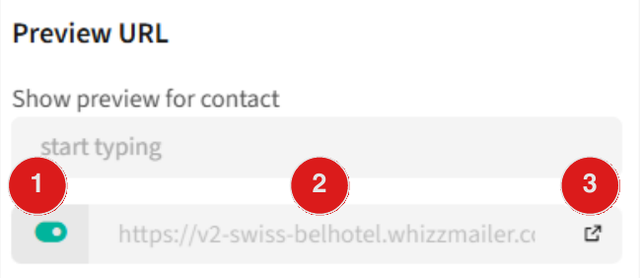
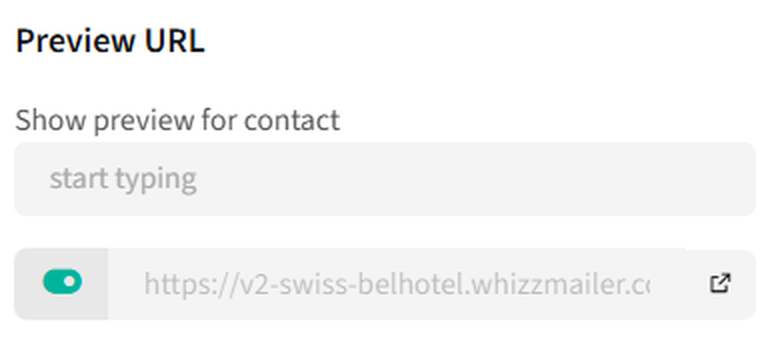
Help screenshots without the guideline's number badges
Claude-Session: https://claude.ai/code/session_014CgXvGgmCgXDUwKqoBJ4Lf

diff --git a/app.js b/app.js
@@ -890,18 +890,18 @@ function renderAccounts(){F("acc-box").hidden=!isAdmin;if(!isAdmin)return;
 /* Where-to-find-it help: an (i) next to a field label shows the matching Whizzmailer screenshot from
    the EDM Template Guidelines 2026. Hover or keyboard focus shows it; a tap toggles it on phones. */
 const FIELD_HELP={
-  "f-subject":["subject","Whizzmailer → Delivery setting → Subject (1)."],
-  "f-preheader":["preheader","Whizzmailer → Delivery setting → Preheader Text (3)."],
-  "f-start":["start","Delivery setting → Start sending at (10). Turn on Available for use (9) first."],
-  "f-stop":["stop","Delivery setting → Stop sending at (11). At most 5 days after the start."],
-  "f-internal":["internal","Delivery setting → Internal Name (2). Format: [HOTEL CODE] - DD Mon YYYY."],
-  "f-utm":["utm","Delivery setting → UTM tags → Campaign name (12). Do not change source (10) and medium (11)."],
-  "f-from":["from","Advanced → From name (1). Use the complete hotel name."],
-  "f-replyto":["replyto","Advanced → Reply to address (3). The hotel's reservations or department email."],
-  "f-preview":["preview","Preview → toggle Preview URL on (1), then double-click the URL to copy it (2)."]};
+  "f-subject":["subject","Whizzmailer → Delivery setting → Subject."],
+  "f-preheader":["preheader","Whizzmailer → Delivery setting → Preheader Text."],
+  "f-start":["start","Delivery setting → Start sending at. Turn on Available for use first."],
+  "f-stop":["stop","Delivery setting → Stop sending at. At most 5 days after the start."],
+  "f-internal":["internal","Delivery setting → Internal Name. Format: [HOTEL CODE] - DD Mon YYYY."],
+  "f-utm":["utm","Delivery setting → UTM tags → Campaign name. Do not change Campaign source and Campaign medium."],
+  "f-from":["from","Advanced → From name. Use the complete hotel name."],
+  "f-replyto":["replyto","Advanced → Reply to address. The hotel's reservations or department email."],
+  "f-preview":["preview","Preview → turn on the Preview URL toggle, then double-click the URL to copy it."]};
 function addFieldHelp(){Object.entries(FIELD_HELP).forEach(([id,[img,cap]])=>{const inp=F(id);const lab=inp&&inp.closest("label");if(!lab||lab.querySelector(".tip"))return;
   const tip=el("span",{class:"tip",tabindex:"0",role:"button","aria-label":"Where to find this in Whizzmailer","aria-expanded":"false"},"i",
-    el("span",{class:"tip-pop",role:"tooltip"},el("img",{src:`/img/help/${img}.png`,alt:`Whizzmailer screenshot: ${cap}`,loading:"lazy"}),el("span",null,cap)));
+    el("span",{class:"tip-pop",role:"tooltip"},el("img",{src:`/img/help/${img}.png?v=2`,alt:`Whizzmailer screenshot: ${cap}`,loading:"lazy"}),el("span",null,cap)));
   const toggle=e=>{e.preventDefault();e.stopPropagation();const on=!tip.classList.contains("open");document.querySelectorAll(".tip.open").forEach(t=>{t.classList.remove("open");t.setAttribute("aria-expanded","false");});if(on){tip.classList.add("open");tip.setAttribute("aria-expanded","true");}};
   tip.addEventListener("click",toggle);tip.addEventListener("keydown",e=>{if(e.key==="Enter"||e.key===" ")toggle(e);if(e.key==="Escape"){tip.classList.remove("open");tip.blur();}});
   const first=[...lab.childNodes].find(n=>n.nodeType===3&&n.textContent.trim());
